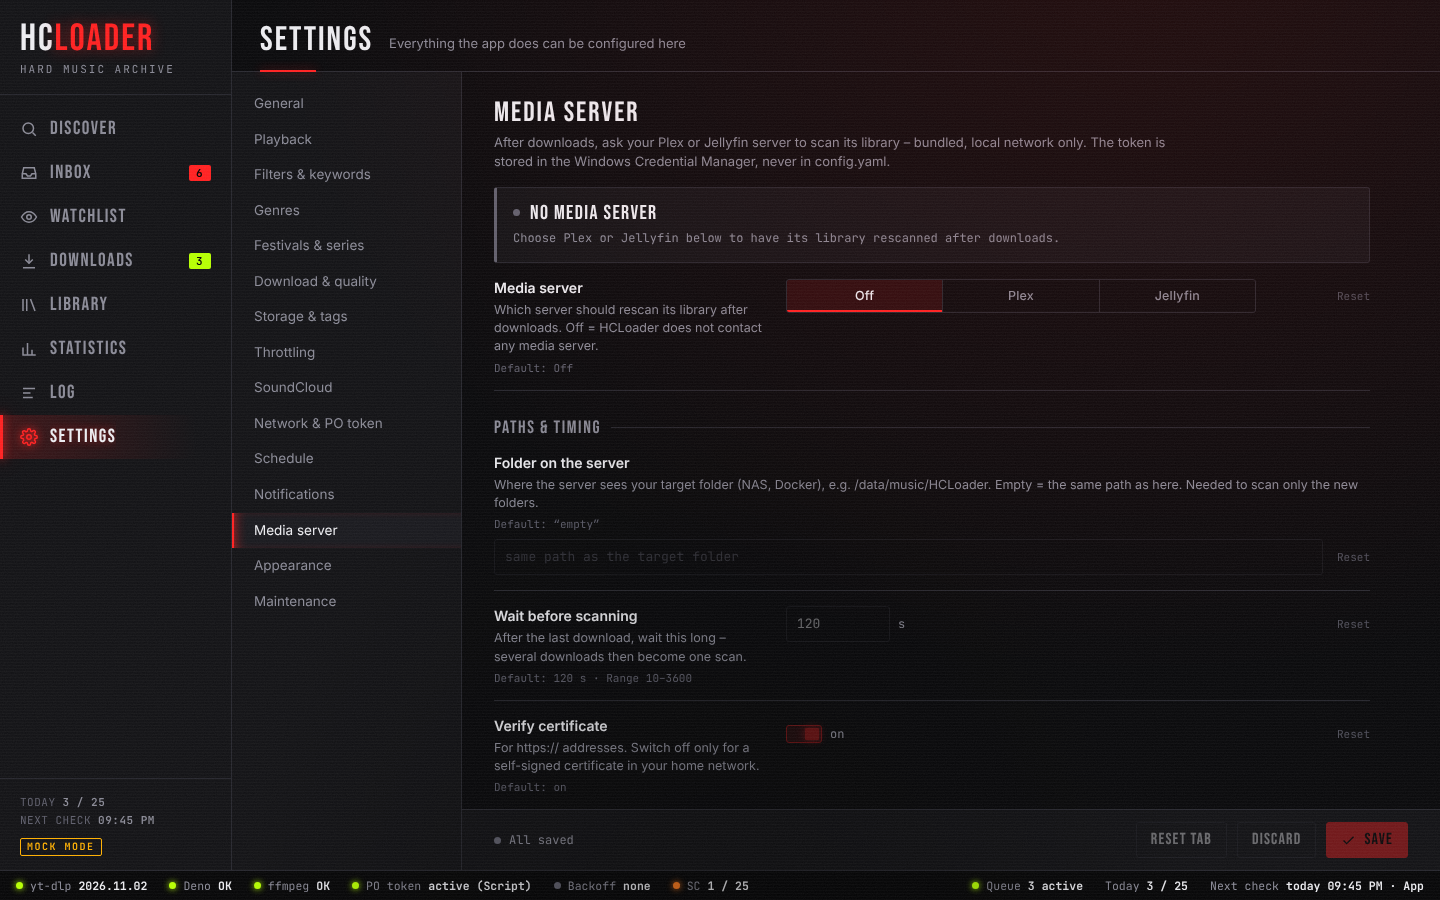
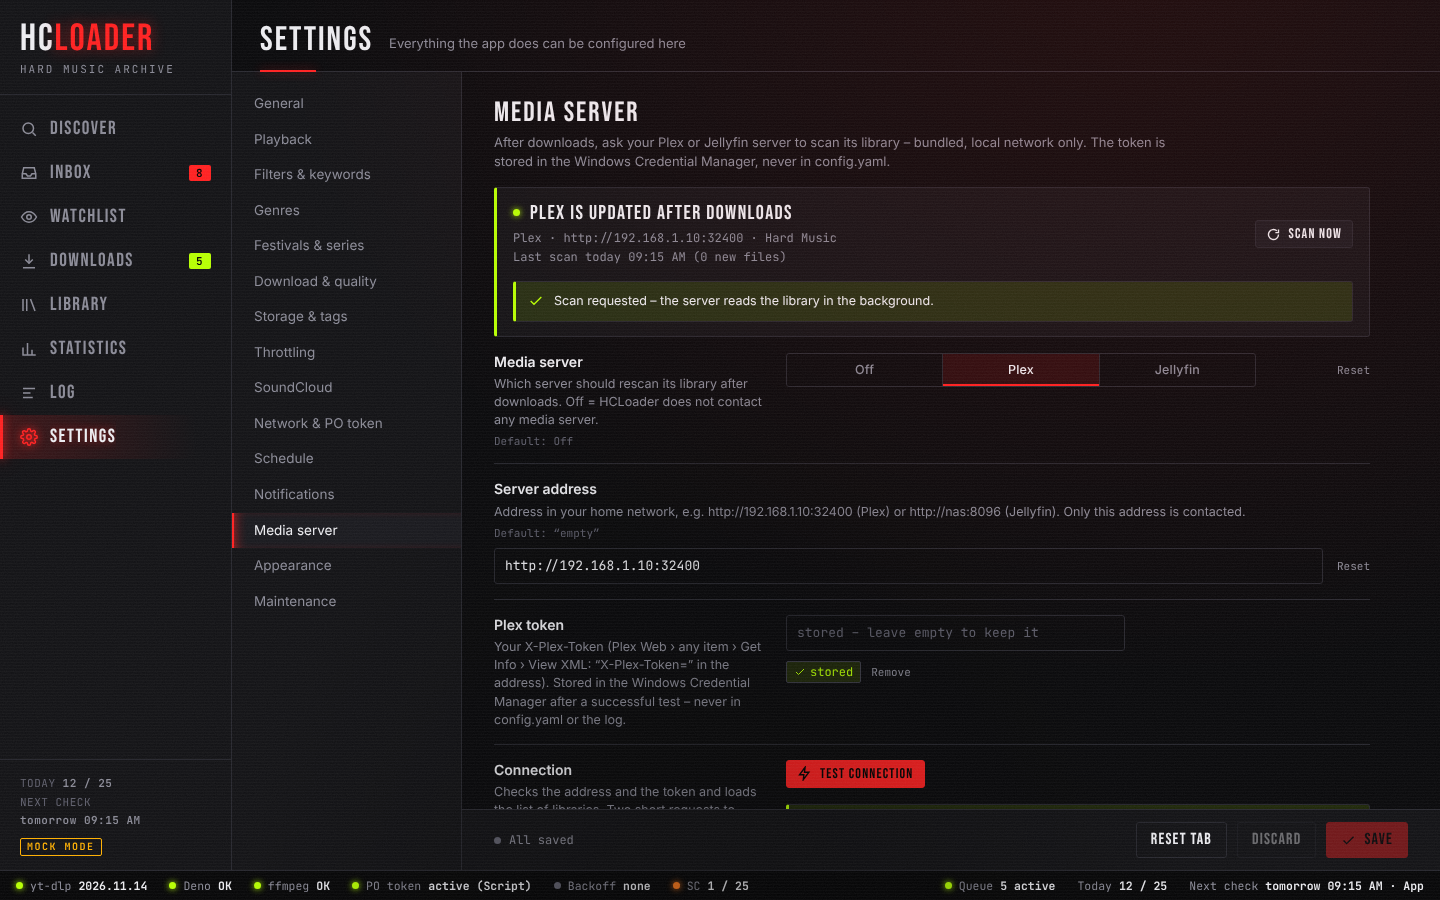
docs: v0.9.0 screenshots (statistics, notifications, media server) and wiki images
Claude-Session: https://claude.ai/code/session_01ShQsUFch3Qm8jFDuGQkccp

diff --git a/ui/css/components.css b/ui/css/components.css
@@ -1759,7 +1759,8 @@ button.tk-time:hover,button.tk-time:focus-visible{border-color:var(--acid);backg
 .st-card>.st-vbars.years{flex:1;display:flex;flex-direction:column}
 .st-card>.st-vbars.years .st-plot{flex:1;height:auto;min-height:150px}
 .st-card.wide{grid-column:1/-1}
-.st-h{font:var(--w-head) condensed 19px/1.1 var(--f-head);text-transform:var(--tt-head);letter-spacing:calc(1.5px * var(--ls));color:var(--text);margin:0 0 12px;padding-right:200px}
+.st-h{font:var(--w-head) condensed 19px/1.1 var(--f-head);text-transform:var(--tt-head);letter-spacing:calc(1.5px * var(--ls));color:var(--text);margin:0 0 12px}
+.st-card:has(.st-meta) .st-h{padding-right:min(45%, 320px)}
 .st-meta{position:absolute;right:16px;top:16px;color:var(--dim);font-size:11px;max-width:45%;white-space:nowrap;overflow:hidden;text-overflow:ellipsis}
 .st-none{color:var(--dim);font:12px var(--f-mono);padding:14px 0}
 .st-foot{color:var(--dim);font-size:11px;margin-top:8px}
